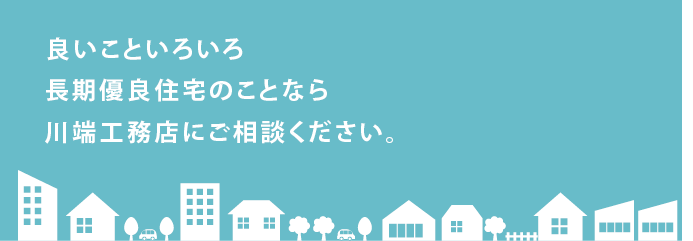
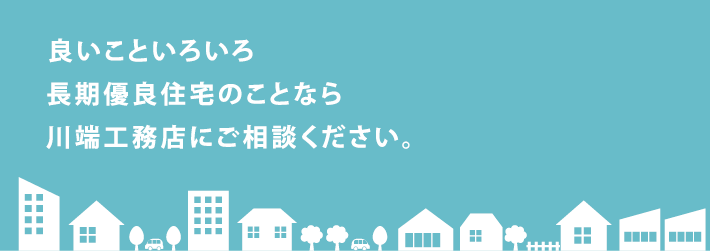
レスポンシブ調整

diff --git a/responsive.css b/responsive.css
@@ -477,6 +477,67 @@
     .adop-top {
         margin-top: 50px !important;
     }
+    .lh-box p {
+        font-size: 14px;
+        line-height: 1.4;
+    }
+    .lh-box h2 {
+        font-size: 14px;
+        line-height: 1.4;
+    }
+    .lh-top-text {
+        letter-spacing: 0.15em !important;
+    }
+    .lh-sub-text {
+        line-height: 1.4 !important;
+    }
+    .box-bottom {
+        position: static;
+    }
+    .img-btn1 {
+        width: 132px;
+        top: auto;
+        bottom: 43px;
+        left: 21px;
+    }
+    .img-btn2 {
+        width: 132px;
+        top: auto;
+        bottom: 43px;
+        left: 167px;
+    }
+    .img-btn3 {
+        width: 132px;
+        top: auto;
+        bottom: 6px;
+        left: 21px;
+    }
+    .img-btn4 {
+        width: 132px;
+        top: auto;
+        bottom: 6px;
+        left: 167px;
+    }
+    .img-speech {
+        width: 64px;
+        margin: 10px 0;
+    }
+    .img-home {
+        width: 18px;
+        margin-bottom: 3px;
+    }
+    .w-120 {
+        width: 120px;
+    }
+    .pt2 {
+        padding-top: 20px;
+    }
+    .pt8 {
+        padding-top: 50px;
+    }
+    .pl55 {
+        padding: 0;
+    }
 }
 
 @media screen and (min-width: 576px) and (max-width: 767.98px) {
@@ -556,11 +617,53 @@
         font-size: 14px;
         line-height: 1.4;
     }
+    .lh-top-text {
+        letter-spacing: 0.15em !important;
+    }
+    .lh-sub-text {
+        line-height: 1.4 !important;
+    }
+    .box-bottom {
+        position: static;
+    }
+    .img-btn1 {
+        top: auto;
+        bottom: 74px;
+        left: 30px;
+    }
+    .img-btn2 {
+        width: 227px;
+        top: auto;
+        bottom: 74px;
+        left: 280px;
+    }
+    .img-btn3 {
+        top: auto;
+        bottom: 10px;
+        left: 30px;
+    }
+    .img-btn4 {
+        width: 227px;
+        top: auto;
+        bottom: 10px;
+        left: 280px;
+    }
     .img-speech {
         width: 64px;
+        margin: 10px 0;
     }
     .img-home {
         width: 18px;
+        margin-bottom: 3px;
+    }
+    .w-120 {
+        width: 120px;
+    }
+    .pt2 {
+        padding-top: 20px;
+    }
+    .pt8 {
+        padding-top: 50px;
     }
     .pl55 {
         padding: 0;
@@ -610,7 +713,27 @@
         margin-top: 50px !important;
     }
     .box-bottom {
-        display: none;
+        position: static;
+    }
+    .img-btn1 {
+        top: auto;
+        bottom: 74px;
+        left: 122px;
+    }
+    .img-btn2 {
+        top: auto;
+        bottom: 74px;
+        left: 369px;
+    }
+    .img-btn3 {
+        top: auto;
+        bottom: 10px;
+        left: 122px;
+    }
+    .img-btn4 {
+        top: auto;
+        bottom: 10px;
+        left: 369px;
     }
 }
 

diff --git a/page-longterm.php b/page-longterm.php
@@ -10,15 +10,16 @@ Template Name: 長期優良住宅ページテンプレート
 <div class="container-fluid p-0 my-5 lh-box">
     <img class="d-none d-lg-inline-block" src="<?php echo get_template_directory_uri(); ?>/images/LH/1200@2x.png" alt="タイトル" width="100%">
     <img class="d-none d-md-inline-block d-lg-none" src="<?php echo get_template_directory_uri(); ?>/images/LH/768@2x.png" alt="タイトル" width="100%">
+    <img class="d-inline-block d-md-none" src="<?php echo get_template_directory_uri(); ?>/images/LH/12@2x.png" alt="タイトル" width="100%">
     <div class="container">
         <div class="row">
             <div class="col-xl-12 col-lg-12 col-md-12 col-sm-12 col-xs-12 pt-4">
-                <p class="lh-top-text">長く安心して住むことができる、国の技術基準をみたした住居「長期優良住宅」。<br>川端工務店は、品質が保証された本当に良い家で、お客様の暮らしを支えます。</p>
+                <p class="lh-top-text">長く安心して住むことができる、国の技術基準をみたした住居「長期優良住宅」。<br class="d-none d-md-block">川端工務店は、品質が保証された本当に良い家で、お客様の暮らしを支えます。</p>
             </div>
             <div class="col-xl-6 col-lg-6 col-md-12 col-sm-12 col-xs-12 pt8">
-                <img src="<?php echo get_template_directory_uri(); ?>/images/LH/lh-2.png" alt="見出し" width="220px">
+                <img class="w-120" src="<?php echo get_template_directory_uri(); ?>/images/LH/lh-2.png" alt="見出し" width="220px">
                 <p class="lh-sub-text pt2">長期優良住宅とは、長い間安心して心地よく暮らせるよう<br class="d-none d-xl-block">国の定めた技術基準をみたした認定住宅です。<br>認定を受けた住宅はメリットもたくさん。<br class="d-none d-xl-block">補助金、住宅ローンの金利引き下げ、税の特例や<br class="d-none d-xl-block">地震保険料の割引などを受けることもできます。</p>
-                <div class="box-bottom">
+                <div class="box-bottom d-none d-lg-block">
                     <img class="img-figure" src="<?php echo get_template_directory_uri(); ?>/images/LH/lh-4.png" alt="図" width="500px">
                     <a href="#" class="img-btn1"><img src="<?php echo get_template_directory_uri(); ?>/images/LH/lh-btn1.png" alt="ボタン" width="227px"></a>
                     <a href="#" class="img-btn2"><img src="<?php echo get_template_directory_uri(); ?>/images/LH/lh-btn2.png" alt="ボタン" width="227px"></a>
@@ -28,6 +29,13 @@ Template Name: 長期優良住宅ページテンプレート
             </div>
             <div class="col-xl-6 col-lg-6 col-md-12 col-sm-12 col-xs-12 pt8">
                 <img src="<?php echo get_template_directory_uri(); ?>/images/LH/k1@2x.png" alt="イメージ画像" width="600px">
+                <div class="pt-4 text-center box-bottom d-block d-lg-none">
+                    <img class="img-figure" src="<?php echo get_template_directory_uri(); ?>/images/LH/lh-4.png" alt="図" width="500px">
+                    <a href="#" class="img-btn1"><img src="<?php echo get_template_directory_uri(); ?>/images/LH/lh-btn1.png" alt="ボタン" width="227px"></a>
+                    <a href="#" class="img-btn2"><img src="<?php echo get_template_directory_uri(); ?>/images/LH/lh-btn2.png" alt="ボタン" width="227px"></a>
+                    <a href="#" class="img-btn3"><img src="<?php echo get_template_directory_uri(); ?>/images/LH/lh-btn3.png" alt="ボタン" width="227px"></a>
+                    <a href="#" class="img-btn4"><img src="<?php echo get_template_directory_uri(); ?>/images/LH/lh-btn4.png" alt="ボタン" width="227px"></a>
+                </div>
             </div>
             <div class="col-xl-12 col-lg-12 col-md-12 col-sm-12 col-xs-12 pt-5">
                 <div>
@@ -49,7 +57,7 @@ Template Name: 長期優良住宅ページテンプレート
 
 <div class="container-fluid p-0 lh-box">
     <img class="d-none d-md-inline-block" src="<?php echo get_template_directory_uri(); ?>/images/LH/lh-5.png" alt="タイトル">
-    <img class="d-inline-block d-md-none" src="<?php echo get_template_directory_uri(); ?>/images/LH/13@2x.png" alt="タイトル">
+    <img class="d-inline-block d-md-none" src="<?php echo get_template_directory_uri(); ?>/images/LH/13@2x.png" alt="タイトル" width="100%">
     <div class="container mb-5">
         <div class="row">
             <div class="col-xl-12 col-lg-12 col-md-12 col-sm-12 col-xs-12 pt-4">
@@ -71,7 +79,7 @@ Template Name: 長期優良住宅ページテンプレート
                     <img class="img-home" src="<?php echo get_template_directory_uri(); ?>/images/LH/k4@2x.png" alt="吹き出し" width="49px">
                     <h2 class="d-inline">投資減税型の特別控除</h2>
                 </div>
-                <div class="pl55">
+                <div class="pt-3 pl55">
                     <p>（平成 21 年 6 月 4 日から令和 3 年 12 月 31 日までに入居した者が対象）<br>個人が、長期優良住宅の普及の促進に関する法律に規定する認定長期優良住宅の新築等をして、<br>居住の用に供した場合には、標準的な性能強化費用相当額 の 10 ％相当額を、<br>その年分の所得税額から控除（当該控除をしてもなお控除しきれない金額がある場合には、<br>翌年分の所得税額から控除）する。</p>
                 </div>
             </div>
@@ -80,7 +88,7 @@ Template Name: 長期優良住宅ページテンプレート
                     <img class="img-home" src="<?php echo get_template_directory_uri(); ?>/images/LH/k4@2x.png" alt="吹き出し" width="49px">
                     <h2 class="d-inline">登録免許税</h2>
                 </div>
-                <div class="pl55">
+                <div class="pt-3 pl55">
                     <p>（令和４年３月 31 日までに取得した者が対象）<br>住宅用家屋の所有権保存登記等に係る税率を一般住宅特例より引き下げる。</p>
                 </div>
             </div>
@@ -89,7 +97,7 @@ Template Name: 長期優良住宅ページテンプレート
                     <img class="img-home" src="<?php echo get_template_directory_uri(); ?>/images/LH/k4@2x.png" alt="吹き出し" width="49px">
                     <h2 class="d-inline">不動産取得税</h2>
                 </div>
-                <div class="pl55">
+                <div class="pt-3 pl55">
                     <p>（令和４ 年３月 31 日までに新築された住宅が対象）<br>新築住宅に係る不動産取得税について、課税標準からの控除額を一般住宅特例より増額する。</p>
                 </div>
             </div>
@@ -98,7 +106,7 @@ Template Name: 長期優良住宅ページテンプレート
                     <img class="img-home" src="<?php echo get_template_directory_uri(); ?>/images/LH/k4@2x.png" alt="吹き出し" width="49px">
                     <h2 class="d-inline">固定資産税</h2>
                 </div>
-                <div class="pl55">
+                <div class="pt-3 pl55">
                     <p>（令和４ 年３月 31 日 までに新築された住宅が対象）<br>新築住宅に係る固定資産税の減額措置の適用期間を一般住宅より延長する。</p>
                 </div>
             </div>
